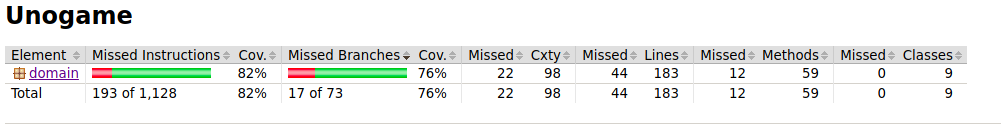
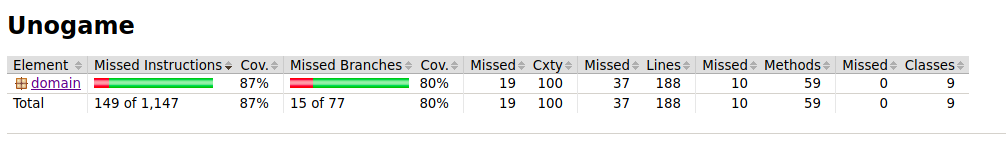
päivitä testausdokumentti

diff --git a/dokumentaatio/testaus.md b/dokumentaatio/testaus.md
@@ -12,7 +12,7 @@ Luokille [Card]() ja [Deck]() on tehty yksikkötestejä joita integraatiotestit 
 
 ### Testauskattavuus
 
-Sovelluksen testauksen rivikattavuus on 82% ja haarautumakattavuus 76%. Käyttöliittymäkerrosta testattiin manuaalisesti, eikä sille ole automaattisia testejä.
+Sovelluksen testauksen rivikattavuus on 87% ja haarautumakattavuus 80%. Käyttöliittymäkerrosta testattiin manuaalisesti, eikä sille ole automaattisia testejä.
 ![jacoco report](kuvat/jacocoreport.png)
 
 ## Järjestelmätestaus
